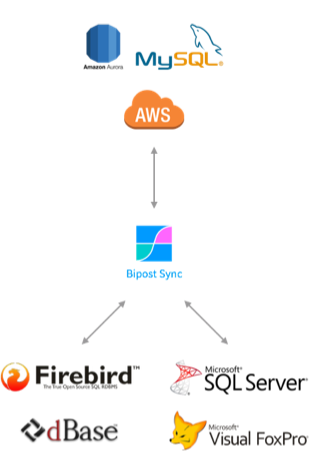
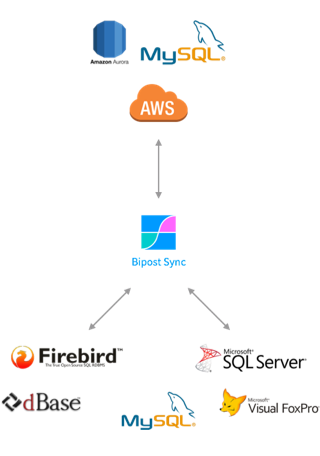
Release 1.2.2 partial documentation update.

diff --git a/index.html b/index.html
@@ -211,6 +211,7 @@
 <ul>
 <li><a href="https://www.microsoft.com/en-us/sql-server" target="_blank">Microsoft SQL Server</a></li>
 <li><a href="https://firebirdsql.org/" target="_blank">Firebird SQL</a></li>
+<li><a href="https://www.mysql.com/" target="_blank">MySQL</a></li>
 <li><a href="http://www.independent-software.com/dbase-dbf-dbt-file-format.html" target="_blank">DBF dBase</a></li>
 <li><a href="https://docs.microsoft.com/en-us/previous-versions/visualstudio/foxpro" target="_blank">Visual FoxPro (VFP)</a></li>
 </ul>
@@ -228,11 +229,11 @@
 <hr />
 <h2 id="use-cases">Use Cases<a class="headerlink" href="#use-cases" title="Permanent link">&para;</a></h2>
 <ul>
-<li>Consolidate/merge information on AWS from across multiple locations and database engines, e.g. merge sales and inventory information from different branches.</li>
-<li>Build Analytics and Business Intelligence dashboards using <a href="https://marketingplatform.google.com/about/data-studio/" target="_blank">Google Data Studio</a> or <a href="https://aws.amazon.com/quicksight/" target="_blank">AWS QuickSight</a>, with native connection to Aurora-MySQL.</li>
+<li>Consolidate/merge information on AWS across multiple locations and database engines, e.g. merge sales and inventory information from different branches.</li>
+<li>Build a Data Warehouse and make Analytics and Business Intelligence dashboards using <a href="https://marketingplatform.google.com/about/data-studio/" target="_blank">Google Data Studio</a> or <a href="https://aws.amazon.com/quicksight/" target="_blank">AWS QuickSight</a>, with native connection to Aurora-MySQL.</li>
 <li>Make statistical analysis and forecasts with AWS services.</li>
 <li>Extend your on-prem ERP to AWS cloud and build web applications &amp; back-end services with API Gateway and Lambda.</li>
-<li>Define centralized data on AWS and deliver it to every store / on-prem system.</li>
+<li>Define centralized data on AWS and push it to every on-prem system store.</li>
 </ul>
 <hr />
 <h2 id="how-it-works">How it works<a class="headerlink" href="#how-it-works" title="Permanent link">&para;</a></h2>
@@ -241,7 +242,7 @@
 <li>Fully customize data sets to upload using <a href="./customdatajson">customData.json</a></li>
 <li>Database and tables are created/altered if they don't exist, and data is loaded to Aurora-MySQL.</li>
 <li>Before and after data is loaded to Aurora-MySQL you can transform data with stored procedures.</li>
-<li>Upload the same data multiple times and avoid duplicates. Data is replaced using primary keys.</li>
+<li>Don't worry about uploading the same data multiple times. Data is replaced using primary keys, avoiding duplicates.</li>
 <li>Run manually or automatically with a Windows Task schedule.</li>
 <li>Upload big datasets using Recursive Sync.</li>
 </ul>
@@ -255,6 +256,7 @@
 <li>Primary keys set on Aurora-MySQL are used against on-prem DB to avoid duplicates.</li>
 <li>Before and after data is loaded to on-prem DB you can transform data with stored procedures.</li>
 <li>Not available for DBF dBase &amp; VFP on-prem.</li>
+<li>MySQL support will be added soon.</li>
 <li>Learn more <a href="./synctowindows">here.</a></li>
 </ul>
 <hr />
@@ -295,6 +297,11 @@
 </blockquote>
 <hr />
 <h2 id="release-notes">Release Notes<a class="headerlink" href="#release-notes" title="Permanent link">&para;</a></h2>
+<h4 id="122-ga-2018-10-31">1.2.2 (GA) 2018-10-31<a class="headerlink" href="#122-ga-2018-10-31" title="Permanent link">&para;</a></h4>
+<ul>
+<li>MySQL on-prem connection added. Actually this feature was added to export data from MySQL on RDS to S3 and continually push datasets from one company to another, i.e. vendor --&gt; customer.</li>
+<li>Bug fixes.</li>
+</ul>
 <h4 id="115-ga-2018-10-07">1.1.5 (GA) 2018-10-07<a class="headerlink" href="#115-ga-2018-10-07" title="Permanent link">&para;</a></h4>
 <ul>
 <li>Visual FoxPro on-prem connection added.</li>
@@ -393,5 +400,5 @@
 
 <!--
 MkDocs version : 0.16.3
-Build Date UTC : 2018-10-12 19:15:15
+Build Date UTC : 2018-11-02 04:31:00
 -->

diff --git a/dbase/index.html b/dbase/index.html
@@ -91,7 +91,7 @@
     <a class="current" href="./">dBase to MySQL Aurora</a>
     <ul class="subnav">
 
-    <li class="toctree-l2"><a href="#synchronize-dbase-to-mysql-aurora">Synchronize dBase to MySQL Aurora</a></li>
+    <li class="toctree-l2"><a href="#synchronize-dbase-to-aws">Synchronize dBase to AWS</a></li>
 
         <ul>
 
@@ -205,8 +205,8 @@
           <div role="main">
             <div class="section">
 
-                <h1 id="synchronize-dbase-to-mysql-aurora">Synchronize dBase to MySQL Aurora<a class="headerlink" href="#synchronize-dbase-to-mysql-aurora" title="Permanent link">&para;</a></h1>
-<p>Continually export dBase data to Aurora MySQL on AWS.</p>
+                <h1 id="synchronize-dbase-to-aws">Synchronize dBase to AWS<a class="headerlink" href="#synchronize-dbase-to-aws" title="Permanent link">&para;</a></h1>
+<p>Continually export dBase data to AWS Aurora MySQL.</p>
 <ul>
 <li>To make synchronizations from DBF to Aurora you need your <strong>Service</strong> and <strong>Activation No.</strong> </li>
 <li>Get them from your <a href="https://s3.amazonaws.com/biforms-prod/index.html" target="_blank">Factor BI Console.</a></li>
@@ -215,8 +215,8 @@
 <ul>
 <li><strong>Service No.:</strong> 36 digit number, it may look like this: <code>a1bcd23e-4fa5-67b8-cd9e-f0123abc4567</code></li>
 <li><strong>Activation No.:</strong> 24 digit number, it may look like this: <code>5990ab12c3de45f6a78bc90d</code></li>
-<li><strong>Engine:</strong> DBF</li>
-<li><strong>System:</strong> Custom...</li>
+<li><strong>Engine:</strong> <code>DBF</code></li>
+<li><strong>System:</strong> <code>Custom...</code></li>
 <li><strong>DBF Connection:</strong> Directory containing <strong>.dbf</strong> files.</li>
 </ul>
 <hr />
@@ -268,15 +268,17 @@
 <hr />
 <h1 id="positouch-use-case">POSitouch Use Case<a class="headerlink" href="#positouch-use-case" title="Permanent link">&para;</a></h1>
 <p><a href="https://positouch.com/" target="_blank">POSitouch</a> Point of Sale system works with .DBF files. You can daily extract DBF data from several POSitouch restaurants and consolidate them on AWS at scale.</p>
-<p>Make POSitouch reporting simple. Create KPI's, Dashboards and Business Intelligence analytics using <a href="https://www.google.com/analytics/data-studio/" target="_blank">Google Data Studio</a> or <a href="https://aws.amazon.com/quicksight/" target="_blank">AWS QuickSight</a> with a seamless connection to Aurora-MySQL.</p>
+<p>Make POSitouch reporting simple. Create KPI's, Dashboards and Business Intelligence analytics using <a href="https://www.google.com/analytics/data-studio/" target="_blank">Google Data Studio</a> or <a href="https://aws.amazon.com/quicksight/" target="_blank">AWS QuickSight</a>.</p>
 <p><img alt="POSitouch Data Consolidation" src="../img/POSitouch-data-consolidation.png" /></p>
 <p><a href="http://bit.ly/positouch-documentation" target="_blank">POSitouch DBF database structure &amp; documentation download.</a></p>
+<p><a href="http://bit.ly/2SDOKKn" target="_blank">POSitouch Inventory Control and Food Cost Manual with Inventory Reports.</a></p>
+<p><a href="http://bit.ly/2yMXeq7" target="_blank">POSitouch Time and Attendance User Manual.</a></p>
 <blockquote>
 <p>Keywords: POSIDBF | Positouch database files | Positouch DBF files | Positouch database tables | merge multiple sites | merge locations</p>
 </blockquote>
 <hr />
 <h2 id="contact">Contact<a class="headerlink" href="#contact" title="Permanent link">&para;</a></h2>
-<p>Questions? Send us an email to: <a href="mailto:info@factorbi.com">info@factorbi.com</a></p>
+<p>Questions? Send us an email: <a href="mailto:info@factorbi.com">info@factorbi.com</a></p>
 
             </div>
           </div>

diff --git a/sqlserver/index.html b/sqlserver/index.html
@@ -81,7 +81,7 @@
     <a class="current" href="./">SQL Server to MySQL Aurora</a>
     <ul class="subnav">
 
-    <li class="toctree-l2"><a href="#synchronize-sql-server-to-mysql-aurora">Synchronize SQL Server to MySQL Aurora</a></li>
+    <li class="toctree-l2"><a href="#synchronize-sql-server-to-aws">Synchronize SQL Server to AWS</a></li>
 
         <ul>
 
@@ -199,8 +199,8 @@
           <div role="main">
             <div class="section">
 
-                <h1 id="synchronize-sql-server-to-mysql-aurora">Synchronize SQL Server to MySQL Aurora<a class="headerlink" href="#synchronize-sql-server-to-mysql-aurora" title="Permanent link">&para;</a></h1>
-<p>Continually export SQL Server data to Aurora MySQL on AWS.</p>
+                <h1 id="synchronize-sql-server-to-aws">Synchronize SQL Server to AWS<a class="headerlink" href="#synchronize-sql-server-to-aws" title="Permanent link">&para;</a></h1>
+<p>Continually export SQL Server data to AWS Aurora MySQL.</p>
 <ul>
 <li>To make synchronizations from SQL Server to Aurora you need your <strong>Service</strong> and <strong>Activation No.</strong> </li>
 <li>Get them from your <a href="https://s3.amazonaws.com/biforms-prod/index.html" target="_blank">Factor BI Console.</a></li>

diff --git a/firebird/index.html b/firebird/index.html
@@ -86,7 +86,7 @@
     <a class="current" href="./">Firebird to MySQL Aurora</a>
     <ul class="subnav">
 
-    <li class="toctree-l2"><a href="#synchronize-firebird-to-mysql-aurora">Synchronize Firebird to MySQL Aurora</a></li>
+    <li class="toctree-l2"><a href="#synchronize-firebird-to-aws">Synchronize Firebird to AWS</a></li>
 
         <ul>
 
@@ -199,8 +199,8 @@
           <div role="main">
             <div class="section">
 
-                <h1 id="synchronize-firebird-to-mysql-aurora">Synchronize Firebird to MySQL Aurora<a class="headerlink" href="#synchronize-firebird-to-mysql-aurora" title="Permanent link">&para;</a></h1>
-<p>Continually export Firebird data to Aurora MySQL on AWS.</p>
+                <h1 id="synchronize-firebird-to-aws">Synchronize Firebird to AWS<a class="headerlink" href="#synchronize-firebird-to-aws" title="Permanent link">&para;</a></h1>
+<p>Continually export Firebird data to AWS Aurora MySQL.</p>
 <ul>
 <li>To make synchronizations from Firebird to Aurora you need your <strong>Service</strong> and <strong>Activation No.</strong> </li>
 <li>Get them from your <a href="https://s3.amazonaws.com/biforms-prod/index.html" target="_blank">Factor BI Console.</a></li>
